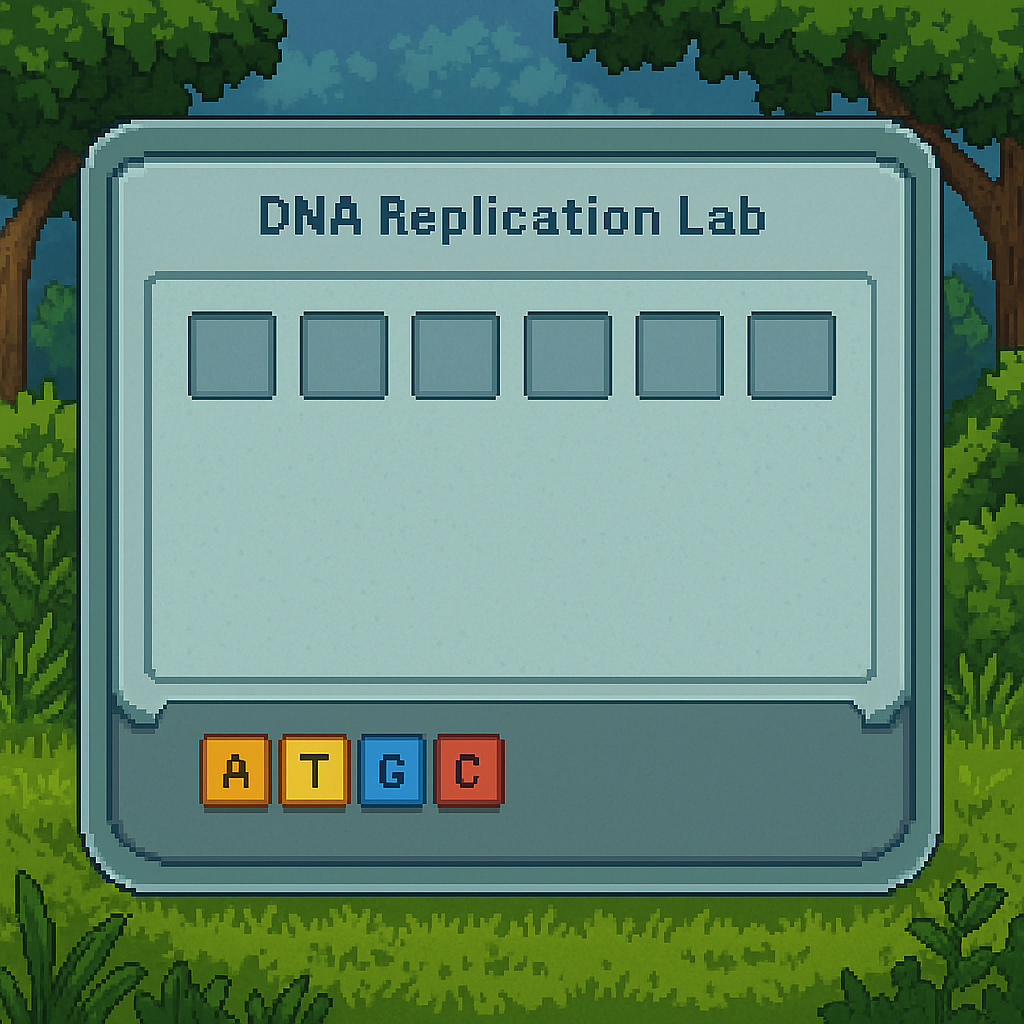
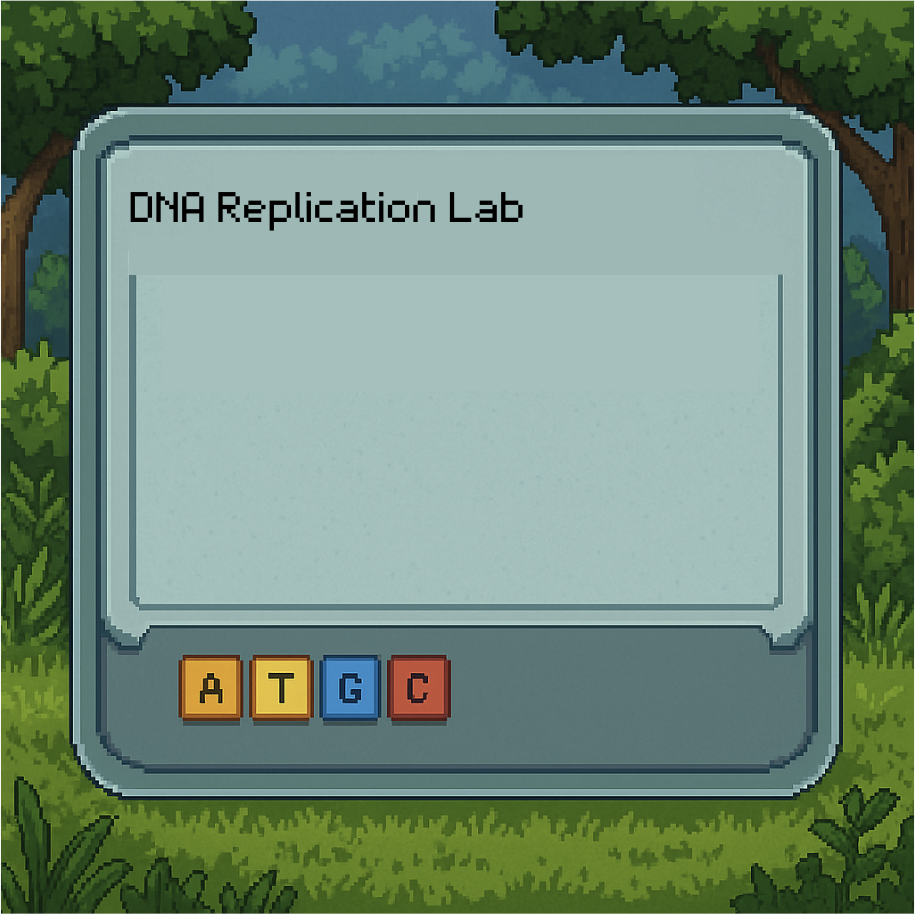
new ui

diff --git a/main.py b/main.py
@@ -86,13 +86,13 @@ class DNAIslandGame:
         self.scene = "dna_lab"
         self.canvas.create_image(0,0,anchor="nw",image=self.lab_bg)
         tk.Button(self.root, text="Exit to Hub", bg=BASE_COLOR, fg=TEXT_COLOR,
-                  width=4, height=2, relief="raised", command=self.show_hub).place(x=700, y=500)
+                  width=4, height=2, relief="raised", command=self.show_hub).place(x=700, y=530)
         self.level_label = tk.Label(self.root, text=f"Level: {self.level}",
                                     bg=BASE_COLOR, fg=TEXT_COLOR, width=8, height=2, relief="ridge")
-        self.level_label.place(x=600, y=30)
+        self.level_label.place(x=600, y=120)
         self.timer_label = tk.Label(self.root, text="Time: 0s",
                                     bg=BASE_COLOR, fg=TEXT_COLOR, width=8, height=2, relief="ridge")
-        self.timer_label.place(x=600, y=80)
+        self.timer_label.place(x=500, y=120)
         self.setup_lab()
 
     def setup_lab(self):
@@ -102,7 +102,7 @@ class DNAIslandGame:
 
         self.empty_spots = []
         for i, base in enumerate(random.choices(list(DNA_PAIRS.keys()), k=base_count)):
-            tk.Label(self.root, text=base, bg="lightblue", width=4, height=2, relief="ridge").place(x=x0 + i * spacing, y=y0)
+            tk.Label(self.root, text=base, bg="lightblue", width=4, height=2, relief="ridge").place(x=x0 + i * spacing, y=200)
             slot = tk.Label(self.root, text="", bg="white", width=4, height=2, relief="ridge")
             slot.place(x=x0 + i * spacing, y=y0 + 100)
             self.empty_spots.append((slot, base))
@@ -119,7 +119,7 @@ class DNAIslandGame:
             self.pal_btns[b] = btn
 
         tk.Button(self.root, text="Submit", bg=BASE_COLOR, fg=TEXT_COLOR,
-                  width=4, height=2, relief="raised", command=self.on_submit).place(x=650, y=pal_y)
+                  width=4, height=2, relief="raised", command=self.on_submit).place(x=600, y=pal_y)
 
         self.start_timer()
 
